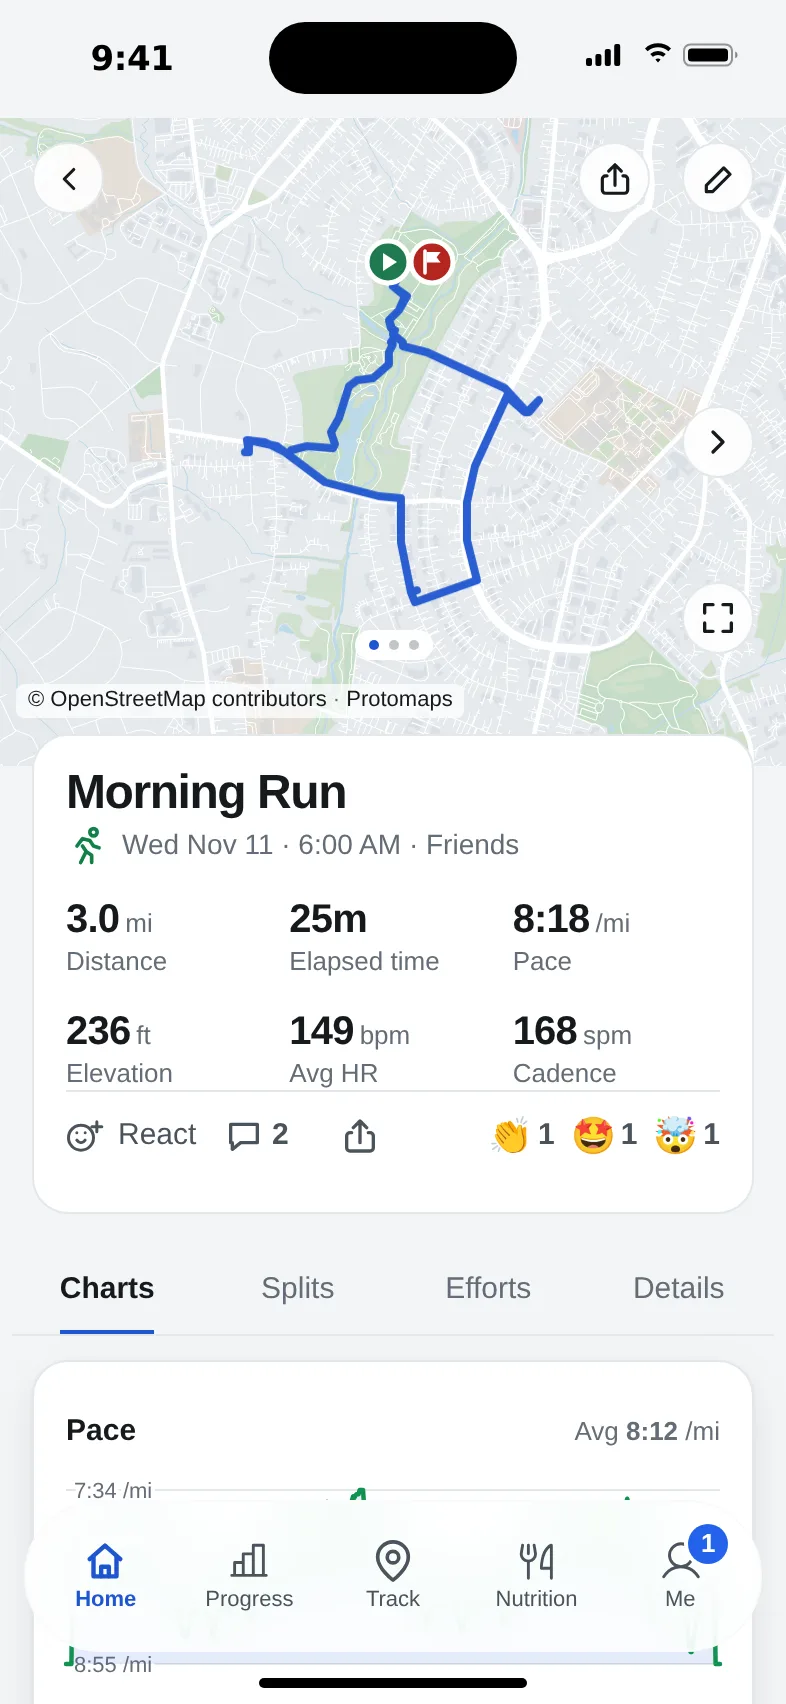
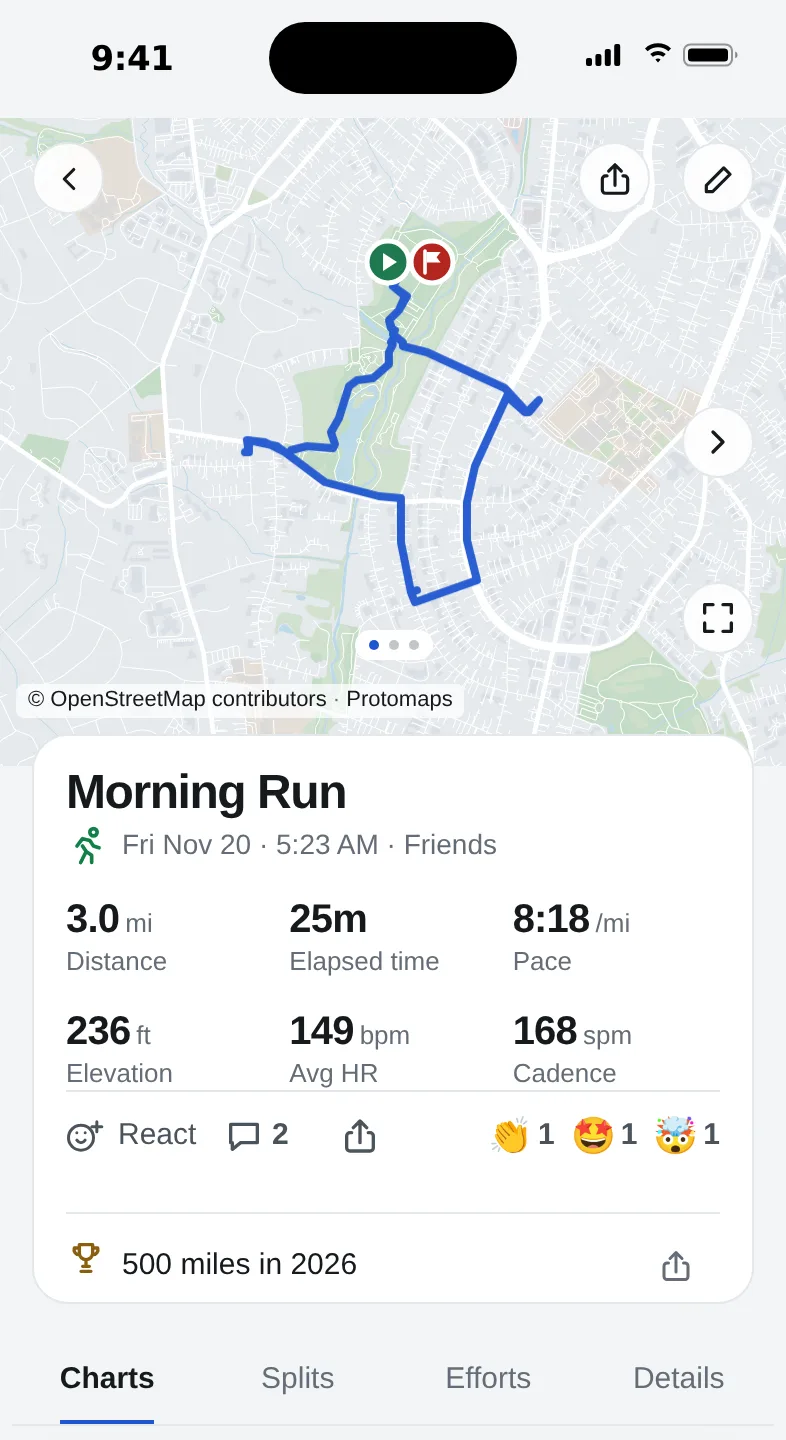
Tighten map and meal captures for #1319

diff --git a/dev/screenshots/take.js b/dev/screenshots/take.js
@@ -157,8 +157,8 @@ async function closeCaptureContext(context) {
 }
 (async () => {
   const browser = await chromium.launch(), errors = [];
-  const openFoodDemo = async (login, scheme) => {
-    const context = await browser.newContext({viewport: {width: W, height: H}, deviceScaleFactor: SCALE, colorScheme: scheme,
+  const openFoodDemo = async (login, scheme, height = H) => {
+    const context = await browser.newContext({viewport: {width: W, height}, deviceScaleFactor: SCALE, colorScheme: scheme,
       timezoneId: SCREENSHOT_CLOCK.timezone, serviceWorkers: 'block'});
     await context.route('**/*', route => new URL(route.request().url()).origin === B ? route.continue() : route.abort());
     await context.route('**/style.css*', async route => {
@@ -322,7 +322,7 @@ async function closeCaptureContext(context) {
         continue;
       }
       if (opt.foodChat === 'confirmed') {
-        const demo = await openFoodDemo(`zz_test_1319_chat_${scheme}`, scheme);
+        const demo = await openFoodDemo(`zz_test_1319_chat_${scheme}`, scheme, Math.min(H, 540));
         foodChatCtx = demo.context;
         foodChatPage = demo.page;
         await enableKitForDemo(foodChatPage);
@@ -572,7 +572,16 @@ async function closeCaptureContext(context) {
         await content.evaluate(el=>window.scrollBy(0,el.getBoundingClientRect().top-390));
       }
       await page.evaluate(chrome, {dark: scheme === 'dark', width: W}); await page.evaluate(()=>new Promise(resolve=>requestAnimationFrame(()=>requestAnimationFrame(resolve))));
-      await page.screenshot({path: `${OUT}/${scheme}-${name}.png`});
+      const capture = {path: `${OUT}/${scheme}-${name}.png`};
+      if (name === 'activity-detail') {
+        // Keep the complete activity card inside a consistent crop before the fixed tab bar and Pace chart.
+        const summary = await page.locator('.compact-detail-title').boundingBox();
+        if (!summary) throw Error('Activity map capture needs its summary card.');
+        const height = Math.min(H, 720);
+        if (summary.y + summary.height > height) throw Error('Activity summary exceeds the crop before the fixed tab bar.');
+        capture.clip = {x: 0, y: 0, width: W, height};
+      }
+      await page.screenshot(capture);
       if (kitInsightFixture) await page.unroute(kitInsightRoute);
       if (opt.lift) await page.evaluate(() => fetch('/api/activities/' + window.__liftId, {method: 'DELETE', headers: {'Content-Type': 'application/json'}}));
       // Remove only what this fictional review story added (entries, saved foods, messages) so the next pass and

diff --git a/dev/screenshots/README.md b/dev/screenshots/README.md
@@ -4,7 +4,7 @@
 
 The website challenge detail fixture uses three **illustrated avatars**, not portraits of real people. They are Microsoft Fluent Emoji Flat SVGs, pinned in `app/static/profile.fluent-emoji/README.md` to upstream commit `1ffb34c752ecf5d402f04cfb4b392c77f57c54bc` and distributed under the included MIT licence. These are stock illustrations, so a model release does not apply. Preserve the upstream copyright and MIT notice when reusing the artwork. Do not replace these with uncleared photos.
 
-The #1319 PR1 review captures are `site/assets/shots/1319-*` (working map, confirmed Kit meal and Profile) and `site/assets/tour/profile-achievements-*`. They use fictional records and can be reused by the follow-up website layout PR.
+The #1319 PR1 review captures are `site/assets/shots/1319-*` (working map, confirmed Kit meal and Profile) and `site/assets/tour/profile-achievements-*`. The Activity detail capture is a 393×720 top crop; it asserts that the full summary card ends before the crop and excludes the fixed tab bar and Pace chart. The confirmed-meal capture uses a 393×540 viewport to keep the sentence, result and related-food suggestion together. The Profile capture stays at 393×852. They use fictional records and can be reused by the follow-up website layout PR.
 
 Start an isolated disposable Compose project with `compose.standin.yml`, load the fixtures, then run `take.js <png-directory> <base-url>` and `to_webp.py <png-directory> site/assets/shots`. Set the operator-approved map variables explicitly: the capture script blocks the public OSM tile endpoint. The website workflow reads only the published public `/api/map-config` through `map_env.py`, with no account or private runtime access. For localhost captures, its range-request relay uses the published app origin and adapts response CORS to localhost; archive bytes and rendering stay unchanged. No production CORS setting is changed. A visible map-load failure stops capture/publication. The three-food chat card is prepared by `food_chat_fixture.py` with fictional nutrition values; food estimates, product lookup and prepared Kit reviews use stand-ins, with no live AI or food-provider request. The screenshots show actual implemented browser controls and fictional records; they do not demonstrate model accuracy.
 
